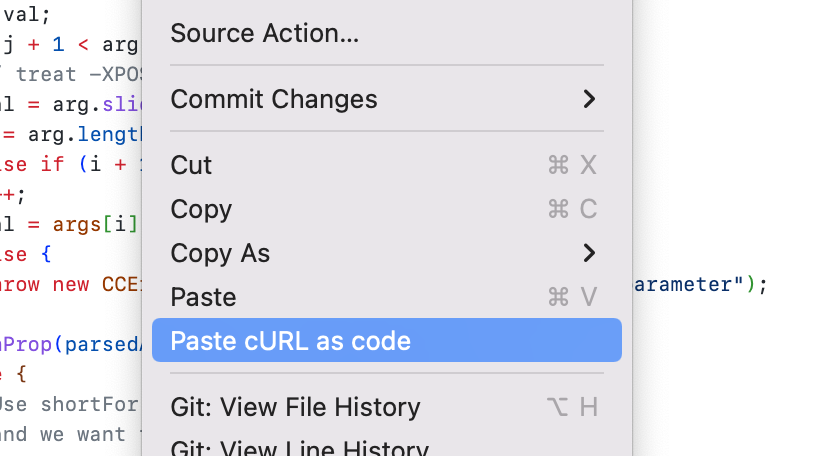
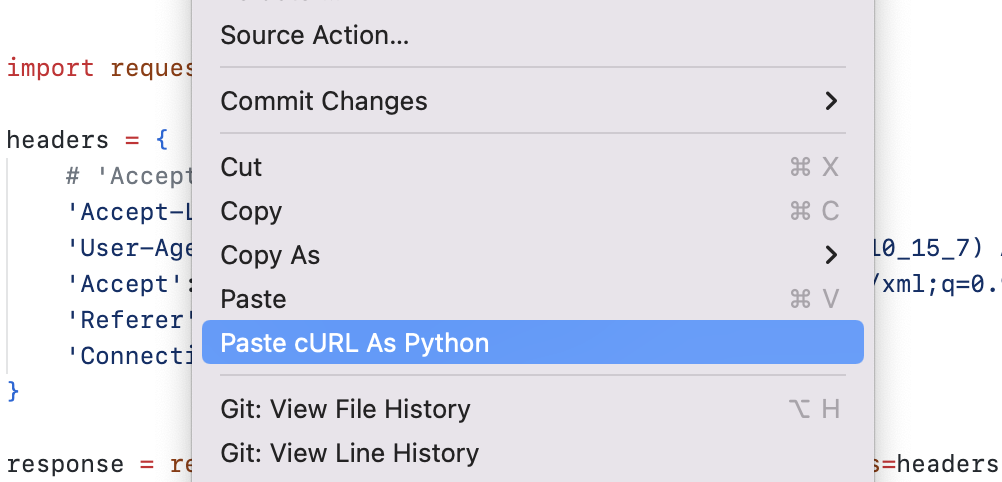
Language dropdown when pasting into plaintext file

diff --git a/src/extension.ts b/src/extension.ts
@@ -1,7 +1,7 @@
 import * as vscode from 'vscode';
 import * as curlconverter from 'curlconverter';
 
-const languages: any = {
+const languages: {[key: string]: (s: string) => string} = {
 	'go': curlconverter.toGo,
 	'java': curlconverter.toJava,
 	'javascript': curlconverter.toBrowser,
@@ -30,15 +30,12 @@ vscode.commands.executeCommand('setContext', 'curlconverter.supportedLanguages',
 
 export function activate(context: vscode.ExtensionContext) {
 
-	let disposable = vscode.commands.registerCommand('curlconverter.fromClipboard', async () => {
-		const editor = vscode.window.activeTextEditor;
-		if (!editor) {
-			return vscode.window.showErrorMessage('No active editor');
-		}
+	const fromClipboard = async (editor: vscode.TextEditor, edit: vscode.TextEditorEdit, converter?: (s: string) => string): Promise<void | string | undefined> => {
+		const languageId = editor.document.languageId;
 
-		const converter = languages[editor.document.languageId];
+		converter = converter ?? languages[languageId];
 		if (!converter) {
-			return vscode.window.showErrorMessage('Unsupported language: ' + editor.document.languageId);
+			return vscode.window.showErrorMessage('Unsupported language: ' + languageId);
 		}
 
 		// Remove leading whitespace and '$'
@@ -66,8 +63,23 @@ export function activate(context: vscode.ExtensionContext) {
 		editor.edit(editBuilder => {
 			editBuilder.insert(editor.selection.active, result);
 		});
+	};
+
+	let disposable = vscode.commands.registerTextEditorCommand('curlconverter.fromClipboard', async (editor, edit) => { 
+		return fromClipboard(editor, edit); 
 	});
 	context.subscriptions.push(disposable);
+
+	for (const fn of [... new Set(Object.values(languages))]) {
+		let langCommand = vscode.commands.registerTextEditorCommand('curlconverter.' + fn.name, async (editor, edit) => { 
+			return fromClipboard(editor, edit, fn); 
+		});
+		context.subscriptions.push(langCommand);
+		langCommand = vscode.commands.registerTextEditorCommand('curlconverter.' + fn.name + 'Short', async (editor, edit) => { 
+			return fromClipboard(editor, edit, fn); 
+		});
+		context.subscriptions.push(langCommand);
+	}
 }
 
 export function deactivate() {}

diff --git a/README.md b/README.md
@@ -1,7 +1,11 @@
 # curlconverter
 
-This extension adds a "Paste cURL as code" option to the right click menu when you're editing a Python, JavaScript, PHP, R, Go, Java, Rust or JSON file.
+This extension adds a "Paste cURL as \<language\>" option to the right click menu when you're editing a Python, JavaScript, PHP, R, Go, Java, Rust or JSON file.
 
 <img alt="Screenshot of right click menu with Past cURL as code option highlighted" src="./screenshot.png" width="407px" />
 
-The JSON output is [curlconverter](https://curlconverter.com/)'s parser's internal state.
+The JSON output is not in any standard format, you can think of it as [curlconverter](https://curlconverter.com/)'s parser's internal state.
+
+---
+
+The version of curlconverter is much older than the one on https://curlconverter.com due to a technical limitation of VS Code.
